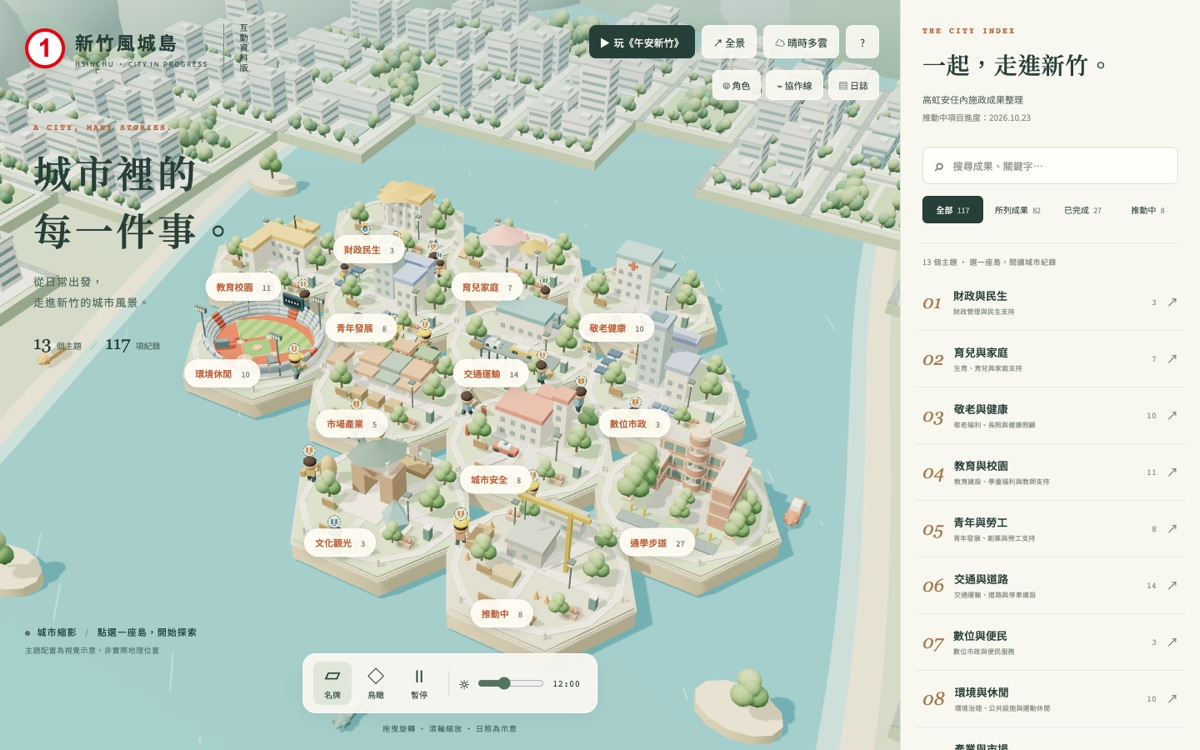
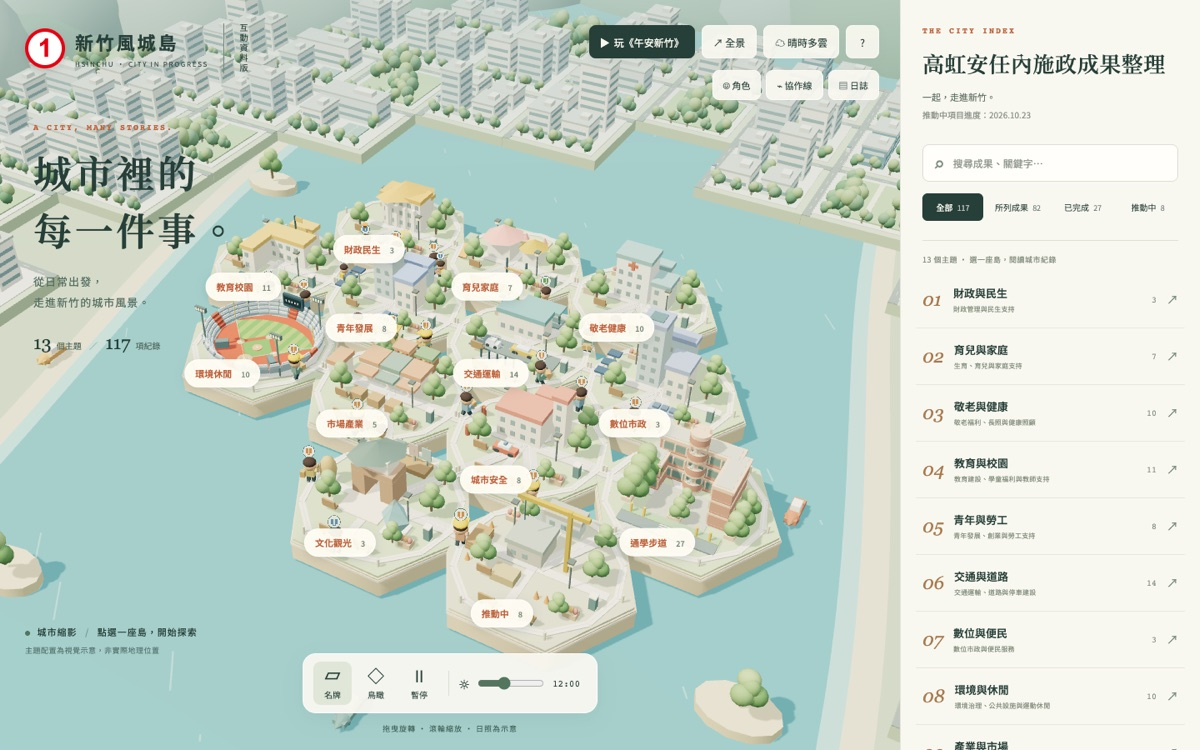
feat: lead the island index with the achievements title
Swap the sidebar heading and subtitle so 高虹安任內施政成果整理 is the
heading, and size it to stay on one line at every sidebar width.

Claude-Session: https://claude.ai/code/session_013HBxmqdVPVVfLEf7ipA8nB

diff --git a/src/style.css b/src/style.css
@@ -1,7 +1,7 @@
 @import url('https://fonts.googleapis.com/css2?family=Noto+Sans+TC:wght@400;500;600;700;800&family=Noto+Serif+TC:wght@500;600;700&display=swap');
-:root{font-family:'Noto Sans TC',sans-serif;color:#263f38;background:#f6f5ed;font-synthesis:none;--paper:#f9f8f0;--ink:#263f38;--green:#52755e;--orange:#bd613b;--border:#dedfd3}*{box-sizing:border-box}body{margin:0}button,input{font:inherit}button,a,input{-webkit-tap-highlight-color:transparent}button{cursor:pointer;color:inherit}button{border:0;background:none}button:focus-visible,a:focus-visible,input:focus-visible{outline:3px solid #bd613b;outline-offset:4px}button:hover{color:var(--orange)}[hidden]{display:none!important}.sr-only{position:absolute;width:1px;height:1px;padding:0;margin:-1px;overflow:hidden;clip:rect(0,0,0,0);white-space:nowrap;border:0}#app{height:100dvh;min-height:600px;display:grid;grid-template-columns:minmax(0,1fr) 360px}.city{position:relative;overflow:hidden;background:radial-gradient(ellipse at 40% 20%,#dae8df 0,#9fcad0 65%,#86b8c0 100%)}#stage{position:absolute;inset:0;z-index:0}#stage canvas{display:block;touch-action:none}.brand{position:absolute;left:30px;top:28px;z-index:3;display:flex;align-items:center;gap:18px}.brand a{display:flex;align-items:center;gap:12px;text-decoration:none;color:var(--ink)}.brand-symbol{width:48px;height:48px;background:#fff;border:4px solid #e60012;border-radius:50%;color:#e60012;font-family:Arial,'Noto Sans TC',sans-serif;font-size:30px;font-weight:900;line-height:1;display:flex;align-items:center;justify-content:center;box-shadow:0 3px 12px #263f3826}.brand strong{font-size:22px;letter-spacing:.13em;font-weight:700}.brand small{display:block;font-size:8px;letter-spacing:1.7px;margin-top:5px}.edition{border-left:1px solid #758d7f;padding-left:16px;font-size:10px;writing-mode:vertical-rl;letter-spacing:2px}.intro{position:absolute;top:146px;left:40px;pointer-events:none;z-index:1}.eyebrow{font-family:monospace;font-size:10px;font-weight:600;letter-spacing:2px;color:var(--orange)}.intro h1{font-family:'Noto Serif TC',serif;font-size:46px;letter-spacing:.08em;line-height:1.5;font-weight:600;margin:14px 0 16px}.intro p{font-size:13px;line-height:1.9;color:#536e61;letter-spacing:.08em}.intro-count{margin-top:24px;font-size:10px;color:#506b5e}.intro-count b{font-family:Georgia,serif;font-size:22px;color:var(--ink);font-weight:400;margin-right:4px}.intro-count span{padding:0 7px;opacity:.5}.map-actions{position:absolute;top:30px;right:25px;z-index:4;display:flex;gap:8px}.map-actions button{height:40px;min-width:40px;padding:0 13px;border:1px solid #ffffff7a;border-radius:8px;background:#f9f8f0e8;box-shadow:0 3px 12px #263f3808;font-size:12px}.map-actions #open-index{display:none}.scene-caption{position:absolute;bottom:113px;left:30px;font-size:11px;font-weight:500;letter-spacing:1px;pointer-events:none}.scene-caption small{display:block;font-size:9px;font-weight:400;letter-spacing:.5px;opacity:.7;margin-top:8px}.live-dot{display:inline-block;width:6px;height:6px;background:#52755e;border-radius:50%;margin-right:5px}.caption-divider{padding:0 6px;opacity:.4}.scene-controls{position:absolute;bottom:44px;left:50%;transform:translateX(-50%);z-index:4;display:flex;align-items:center;background:#f9f8f0f0;border:1px solid #ffffffb0;border-radius:16px;box-shadow:0 8px 24px #33504912;padding:9px 12px;gap:6px}.scene-controls>button{display:flex;flex-direction:column;align-items:center;gap:3px;width:46px;font-size:10px;border-radius:9px;padding:5px 0}.scene-controls>button>span{font-size:20px;line-height:24px}.scene-controls>button[aria-pressed=true]{background:#e0e7d8}.control-divider{height:30px;width:1px;background:var(--border);margin:0 6px}.scene-controls label{display:flex;align-items:center;gap:8px;font-size:20px;padding-right:8px}.scene-controls input{width:80px;accent-color:var(--green)}.scene-controls output{font:11px monospace}.scene-hint{position:absolute;bottom:19px;left:0;width:100%;text-align:center;font-size:9px;letter-spacing:1px;color:#37594e;pointer-events:none}.island-label{border:1px solid #fff8;background:#fffdf3ef;color:#2d493c;border-radius:20px;padding:8px 12px;box-shadow:0 3px 12px #243c3522;white-space:nowrap;font-size:11px;font-weight:600;pointer-events:auto;transition:background .2s}.island-label:hover,.island-label.selected,.island-label[aria-pressed=true]{background:#2f5044;color:#fff}.island-label small{font-size:9px;opacity:.65;margin-left:6px}.island-label span{color:var(--orange);margin-right:5px}.loading{position:absolute;top:60%;left:50%;transform:translate(-50%,-50%);font-size:13px}#sidebar{background:var(--paper);position:relative;z-index:5;overflow:auto;border-left:1px solid #e3e3d8;scrollbar-width:thin;scrollbar-color:#d5d7c9 transparent;display:flex;flex-direction:column}.side-header{padding:30px 26px 0}.side-header h2{font-family:'Noto Serif TC',serif;font-size:28px;font-weight:600;letter-spacing:.02em;margin:15px 0 12px}.side-header p{font-size:11px;line-height:1.9;color:#637468;margin:0}.side-header p span{font-size:10px;color:#8b948a}.search-box{display:flex;align-items:center;gap:8px;border:1px solid var(--border);border-radius:8px;padding:0 12px;margin:25px 0 14px;background:#fffefa}.search-box>span{font-size:23px;color:#7e8e7f}.search-box input{border:0;background:none;outline-offset:0;width:100%;min-width:0;height:43px;font-size:12px;color:var(--ink)}.search-box input::placeholder{color:#91998c}.filters{display:flex;gap:5px;padding-bottom:23px;border-bottom:1px solid var(--border)}.filters button{font-size:10px;padding:9px 8px;border-radius:6px;white-space:nowrap;flex:1}.filters b{font-size:9px;opacity:.7;font-weight:400;margin-left:3px}.filters button[aria-pressed=true]{background:var(--ink);color:var(--paper)}.list-summary{padding:16px 26px 8px;font-size:9px;letter-spacing:.5px;color:#849080}#category-list{padding:0 18px 12px;flex:1}.category{border-bottom:1px solid #e7e7dc}.category-toggle{width:100%;display:flex;align-items:center;gap:12px;text-align:left;min-height:67px;padding:12px 8px}.category-no{font-family:Georgia,serif;font-size:22px;font-style:italic;color:#a87a50;min-width:25px}.category-name{font-size:13px;font-weight:600;flex:1}.category-name small{display:block;font-size:8px;font-weight:400;color:#859180;margin-top:4px;letter-spacing:.2px}.category-count{font-family:monospace;font-size:10px;color:#8d9789}.category-arrow{font-size:14px;color:#778c78}.expanded>.category-toggle{color:var(--green)}.items{padding:0 6px 12px 39px}.item{width:100%;display:flex;align-items:center;gap:8px;text-align:left;font-size:11px;padding:10px 0;line-height:1.7}.item-dot{width:4px;height:4px;flex-shrink:0;border-radius:50%;background:#7a9472}.item-dot.pending{background:#bf8e43}.item>span:nth-child(2){flex:1}.item-arrow{opacity:.4;font-size:12px}.review-note{display:block;font-size:9px;color:#a07645}.side-footer{padding:22px 26px 24px;border-top:1px solid var(--border)}.side-footer>span{font-family:'Noto Serif TC',serif;font-size:12px;color:#7b8c79;display:block;margin-bottom:12px}.side-footer button{font-size:10px;padding:0;color:#5d755e}.empty{text-align:center;padding:35px 12px;color:#768671}.empty>span{font-size:34px}.empty h3{font-size:14px}.empty p{font-size:11px;line-height:1.8}.empty button{margin-top:10px;text-decoration:underline;font-size:12px}#close-index{display:none}dialog{color:var(--ink);border:1px solid #e3e4d7;padding:0;border-radius:20px;background:var(--paper);width:min(540px,calc(100% - 32px));max-height:85dvh;box-shadow:0 20px 100px #18332b33}dialog::backdrop{background:#18342a60;backdrop-filter:blur(5px)}.dialog-close{position:absolute;top:16px;right:16px;z-index:1;border-radius:50%;width:34px;height:34px;background:#fff9;font-size:14px}.detail-art{height:140px;background:radial-gradient(circle at 60% 20%,#e8ecd3,#c4d5bb);display:flex;align-items:center;justify-content:center;position:relative;overflow:hidden}.detail-art>span{font-family:serif;font-size:85px;color:#587658;transform:rotate(-10deg)}.detail-art small{position:absolute;bottom:13px;left:30px;font:8px monospace;letter-spacing:2px;color:#67805f}.detail-body{padding:30px}.detail-body h2{font-family:'Noto Serif TC',serif;font-size:28px;line-height:1.5;margin:12px 0}.status{display:inline-block;font-size:10px;padding:5px 8px;border-radius:4px;background:#e6ecd9;color:#4e6e47}.status.pending{background:#f1e4c7;color:#8d6d35}.detail-description{font-size:15px;line-height:2;letter-spacing:.02em;margin:22px 0 28px}.notice{border-left:3px solid #c9a063;background:#f0e9d9;padding:14px;font-size:12px;line-height:1.8}.notice p{margin:6px 0 0}.detail-source{border-top:1px solid var(--border);padding-top:20px;font-size:10px;line-height:1.8;margin-top:24px;color:#798975}.detail-source span{display:block}.detail-source b{font-weight:500;color:#526b54}.detail-source p{margin-bottom:0}#info{padding:40px 30px}#info h2{font-family:'Noto Serif TC',serif;font-size:26px;padding-right:12px}#info p,#info li{font-size:13px;line-height:2;color:#5c705b}#info ol{padding-left:20px}.skip-link{position:fixed;left:10px;top:-60px;z-index:100;background:white;padding:12px;color:var(--ink)}.skip-link:focus{top:10px}.fallback{position:absolute;top:48%;left:50%;transform:translate(-50%,-50%);width:75%;max-width:420px;text-align:center}.fallback>span{font:80px 'Noto Serif TC',serif}.fallback h2{font-family:'Noto Serif TC',serif}.fallback p{font-size:13px;line-height:2}.fallback button{border:1px solid #52755e;border-radius:7px;padding:10px 20px}
+:root{font-family:'Noto Sans TC',sans-serif;color:#263f38;background:#f6f5ed;font-synthesis:none;--paper:#f9f8f0;--ink:#263f38;--green:#52755e;--orange:#bd613b;--border:#dedfd3}*{box-sizing:border-box}body{margin:0}button,input{font:inherit}button,a,input{-webkit-tap-highlight-color:transparent}button{cursor:pointer;color:inherit}button{border:0;background:none}button:focus-visible,a:focus-visible,input:focus-visible{outline:3px solid #bd613b;outline-offset:4px}button:hover{color:var(--orange)}[hidden]{display:none!important}.sr-only{position:absolute;width:1px;height:1px;padding:0;margin:-1px;overflow:hidden;clip:rect(0,0,0,0);white-space:nowrap;border:0}#app{height:100dvh;min-height:600px;display:grid;grid-template-columns:minmax(0,1fr) 360px}.city{position:relative;overflow:hidden;background:radial-gradient(ellipse at 40% 20%,#dae8df 0,#9fcad0 65%,#86b8c0 100%)}#stage{position:absolute;inset:0;z-index:0}#stage canvas{display:block;touch-action:none}.brand{position:absolute;left:30px;top:28px;z-index:3;display:flex;align-items:center;gap:18px}.brand a{display:flex;align-items:center;gap:12px;text-decoration:none;color:var(--ink)}.brand-symbol{width:48px;height:48px;background:#fff;border:4px solid #e60012;border-radius:50%;color:#e60012;font-family:Arial,'Noto Sans TC',sans-serif;font-size:30px;font-weight:900;line-height:1;display:flex;align-items:center;justify-content:center;box-shadow:0 3px 12px #263f3826}.brand strong{font-size:22px;letter-spacing:.13em;font-weight:700}.brand small{display:block;font-size:8px;letter-spacing:1.7px;margin-top:5px}.edition{border-left:1px solid #758d7f;padding-left:16px;font-size:10px;writing-mode:vertical-rl;letter-spacing:2px}.intro{position:absolute;top:146px;left:40px;pointer-events:none;z-index:1}.eyebrow{font-family:monospace;font-size:10px;font-weight:600;letter-spacing:2px;color:var(--orange)}.intro h1{font-family:'Noto Serif TC',serif;font-size:46px;letter-spacing:.08em;line-height:1.5;font-weight:600;margin:14px 0 16px}.intro p{font-size:13px;line-height:1.9;color:#536e61;letter-spacing:.08em}.intro-count{margin-top:24px;font-size:10px;color:#506b5e}.intro-count b{font-family:Georgia,serif;font-size:22px;color:var(--ink);font-weight:400;margin-right:4px}.intro-count span{padding:0 7px;opacity:.5}.map-actions{position:absolute;top:30px;right:25px;z-index:4;display:flex;gap:8px}.map-actions button{height:40px;min-width:40px;padding:0 13px;border:1px solid #ffffff7a;border-radius:8px;background:#f9f8f0e8;box-shadow:0 3px 12px #263f3808;font-size:12px}.map-actions #open-index{display:none}.scene-caption{position:absolute;bottom:113px;left:30px;font-size:11px;font-weight:500;letter-spacing:1px;pointer-events:none}.scene-caption small{display:block;font-size:9px;font-weight:400;letter-spacing:.5px;opacity:.7;margin-top:8px}.live-dot{display:inline-block;width:6px;height:6px;background:#52755e;border-radius:50%;margin-right:5px}.caption-divider{padding:0 6px;opacity:.4}.scene-controls{position:absolute;bottom:44px;left:50%;transform:translateX(-50%);z-index:4;display:flex;align-items:center;background:#f9f8f0f0;border:1px solid #ffffffb0;border-radius:16px;box-shadow:0 8px 24px #33504912;padding:9px 12px;gap:6px}.scene-controls>button{display:flex;flex-direction:column;align-items:center;gap:3px;width:46px;font-size:10px;border-radius:9px;padding:5px 0}.scene-controls>button>span{font-size:20px;line-height:24px}.scene-controls>button[aria-pressed=true]{background:#e0e7d8}.control-divider{height:30px;width:1px;background:var(--border);margin:0 6px}.scene-controls label{display:flex;align-items:center;gap:8px;font-size:20px;padding-right:8px}.scene-controls input{width:80px;accent-color:var(--green)}.scene-controls output{font:11px monospace}.scene-hint{position:absolute;bottom:19px;left:0;width:100%;text-align:center;font-size:9px;letter-spacing:1px;color:#37594e;pointer-events:none}.island-label{border:1px solid #fff8;background:#fffdf3ef;color:#2d493c;border-radius:20px;padding:8px 12px;box-shadow:0 3px 12px #243c3522;white-space:nowrap;font-size:11px;font-weight:600;pointer-events:auto;transition:background .2s}.island-label:hover,.island-label.selected,.island-label[aria-pressed=true]{background:#2f5044;color:#fff}.island-label small{font-size:9px;opacity:.65;margin-left:6px}.island-label span{color:var(--orange);margin-right:5px}.loading{position:absolute;top:60%;left:50%;transform:translate(-50%,-50%);font-size:13px}#sidebar{background:var(--paper);position:relative;z-index:5;overflow:auto;border-left:1px solid #e3e3d8;scrollbar-width:thin;scrollbar-color:#d5d7c9 transparent;display:flex;flex-direction:column}.side-header{padding:30px 26px 0}.side-header h2{font-family:'Noto Serif TC',serif;font-size:26px;font-weight:600;letter-spacing:.02em;margin:15px 0 12px}.side-header p{font-size:11px;line-height:1.9;color:#637468;margin:0}.side-header p span{font-size:10px;color:#8b948a}.search-box{display:flex;align-items:center;gap:8px;border:1px solid var(--border);border-radius:8px;padding:0 12px;margin:25px 0 14px;background:#fffefa}.search-box>span{font-size:23px;color:#7e8e7f}.search-box input{border:0;background:none;outline-offset:0;width:100%;min-width:0;height:43px;font-size:12px;color:var(--ink)}.search-box input::placeholder{color:#91998c}.filters{display:flex;gap:5px;padding-bottom:23px;border-bottom:1px solid var(--border)}.filters button{font-size:10px;padding:9px 8px;border-radius:6px;white-space:nowrap;flex:1}.filters b{font-size:9px;opacity:.7;font-weight:400;margin-left:3px}.filters button[aria-pressed=true]{background:var(--ink);color:var(--paper)}.list-summary{padding:16px 26px 8px;font-size:9px;letter-spacing:.5px;color:#849080}#category-list{padding:0 18px 12px;flex:1}.category{border-bottom:1px solid #e7e7dc}.category-toggle{width:100%;display:flex;align-items:center;gap:12px;text-align:left;min-height:67px;padding:12px 8px}.category-no{font-family:Georgia,serif;font-size:22px;font-style:italic;color:#a87a50;min-width:25px}.category-name{font-size:13px;font-weight:600;flex:1}.category-name small{display:block;font-size:8px;font-weight:400;color:#859180;margin-top:4px;letter-spacing:.2px}.category-count{font-family:monospace;font-size:10px;color:#8d9789}.category-arrow{font-size:14px;color:#778c78}.expanded>.category-toggle{color:var(--green)}.items{padding:0 6px 12px 39px}.item{width:100%;display:flex;align-items:center;gap:8px;text-align:left;font-size:11px;padding:10px 0;line-height:1.7}.item-dot{width:4px;height:4px;flex-shrink:0;border-radius:50%;background:#7a9472}.item-dot.pending{background:#bf8e43}.item>span:nth-child(2){flex:1}.item-arrow{opacity:.4;font-size:12px}.review-note{display:block;font-size:9px;color:#a07645}.side-footer{padding:22px 26px 24px;border-top:1px solid var(--border)}.side-footer>span{font-family:'Noto Serif TC',serif;font-size:12px;color:#7b8c79;display:block;margin-bottom:12px}.side-footer button{font-size:10px;padding:0;color:#5d755e}.empty{text-align:center;padding:35px 12px;color:#768671}.empty>span{font-size:34px}.empty h3{font-size:14px}.empty p{font-size:11px;line-height:1.8}.empty button{margin-top:10px;text-decoration:underline;font-size:12px}#close-index{display:none}dialog{color:var(--ink);border:1px solid #e3e4d7;padding:0;border-radius:20px;background:var(--paper);width:min(540px,calc(100% - 32px));max-height:85dvh;box-shadow:0 20px 100px #18332b33}dialog::backdrop{background:#18342a60;backdrop-filter:blur(5px)}.dialog-close{position:absolute;top:16px;right:16px;z-index:1;border-radius:50%;width:34px;height:34px;background:#fff9;font-size:14px}.detail-art{height:140px;background:radial-gradient(circle at 60% 20%,#e8ecd3,#c4d5bb);display:flex;align-items:center;justify-content:center;position:relative;overflow:hidden}.detail-art>span{font-family:serif;font-size:85px;color:#587658;transform:rotate(-10deg)}.detail-art small{position:absolute;bottom:13px;left:30px;font:8px monospace;letter-spacing:2px;color:#67805f}.detail-body{padding:30px}.detail-body h2{font-family:'Noto Serif TC',serif;font-size:28px;line-height:1.5;margin:12px 0}.status{display:inline-block;font-size:10px;padding:5px 8px;border-radius:4px;background:#e6ecd9;color:#4e6e47}.status.pending{background:#f1e4c7;color:#8d6d35}.detail-description{font-size:15px;line-height:2;letter-spacing:.02em;margin:22px 0 28px}.notice{border-left:3px solid #c9a063;background:#f0e9d9;padding:14px;font-size:12px;line-height:1.8}.notice p{margin:6px 0 0}.detail-source{border-top:1px solid var(--border);padding-top:20px;font-size:10px;line-height:1.8;margin-top:24px;color:#798975}.detail-source span{display:block}.detail-source b{font-weight:500;color:#526b54}.detail-source p{margin-bottom:0}#info{padding:40px 30px}#info h2{font-family:'Noto Serif TC',serif;font-size:26px;padding-right:12px}#info p,#info li{font-size:13px;line-height:2;color:#5c705b}#info ol{padding-left:20px}.skip-link{position:fixed;left:10px;top:-60px;z-index:100;background:white;padding:12px;color:var(--ink)}.skip-link:focus{top:10px}.fallback{position:absolute;top:48%;left:50%;transform:translate(-50%,-50%);width:75%;max-width:420px;text-align:center}.fallback>span{font:80px 'Noto Serif TC',serif}.fallback h2{font-family:'Noto Serif TC',serif}.fallback p{font-size:13px;line-height:2}.fallback button{border:1px solid #52755e;border-radius:7px;padding:10px 20px}
 @media(min-width:1600px){#app{grid-template-columns:minmax(0,1fr) 390px}.intro{top:160px;left:50px}.intro h1{font-size:54px}.category-toggle{min-height:73px}}
-@media(max-width:1150px){#app{grid-template-columns:minmax(0,1fr) 320px}.brand{left:20px;gap:10px}.brand strong{font-size:19px}.edition{display:none}.intro{top:120px;left:25px}.intro h1{font-size:36px}.intro p{font-size:11px}.map-actions{right:18px}.scene-caption{left:20px;bottom:125px}.scene-controls{gap:2px;padding:8px}.scene-controls input{width:60px}.side-header{padding:30px 20px 0}.side-header h2{font-size:25px}.filters button{padding:8px 5px}.category-name small{font-size:7px}}
+@media(max-width:1150px){#app{grid-template-columns:minmax(0,1fr) 320px}.brand{left:20px;gap:10px}.brand strong{font-size:19px}.edition{display:none}.intro{top:120px;left:25px}.intro h1{font-size:36px}.intro p{font-size:11px}.map-actions{right:18px}.scene-caption{left:20px;bottom:125px}.scene-controls{gap:2px;padding:8px}.scene-controls input{width:60px}.side-header{padding:30px 20px 0}.side-header h2{font-size:24px}.filters button{padding:8px 5px}.category-name small{font-size:7px}}
 @media(max-width:760px){#app{display:block;min-height:0;height:100dvh}.city{height:100%}.brand{left:18px;top:20px}.brand-symbol{width:38px;height:38px;font-size:24px;border-width:3px}.brand strong{font-size:17px}.brand small{font-size:6px;letter-spacing:1.2px}.brand a{gap:9px}.map-actions{top:20px;right:15px;gap:5px}.map-actions button{height:36px;min-width:35px;padding:0 9px;font-size:11px}.map-actions #open-index{display:block}.map-actions #reset{display:none}.intro{top:108px;left:24px}.intro .eyebrow{font-size:8px}.intro h1{font-size:32px;line-height:1.45;margin:10px 0}.intro p{font-size:11px;margin:9px 0}.intro-count{margin-top:12px;font-size:9px}.intro-count b{font-size:18px}.scene-caption{left:22px;bottom:130px;font-size:10px}.scene-caption small{font-size:8px}.scene-controls{bottom:48px;border-radius:13px}.scene-controls input{width:55px}.scene-controls>button{width:40px;font-size:9px}.scene-controls label{gap:5px;padding-right:3px}.scene-controls output{font-size:10px}.scene-hint{bottom:25px;font-size:8px}.island-label{font-size:9px;padding:6px 8px}.island-label small{font-size:8px}#sidebar{position:fixed;inset:auto 0 0;max-height:84dvh;border-radius:22px 22px 0 0;border:1px solid var(--border);transform:translateY(105%);transition:transform .25s;z-index:10;box-shadow:0 -10px 60px #284b4222}#sidebar.open{transform:translateY(0)}.side-header{padding:25px 24px 0}.side-header h2{font-size:25px;margin:12px 0}.side-header p{font-size:10px}.search-box{margin-top:17px}.filters{padding-bottom:16px}#close-index{display:block;float:right;font-size:18px;margin-top:-6px}.category-name small{font-size:9px}.category-toggle{min-height:66px}.list-summary{padding-top:15px}.category-name{font-size:14px}.item{font-size:13px;padding:12px 0}.side-footer{padding-bottom:max(24px,env(safe-area-inset-bottom))}.detail-body{padding:25px}.detail-description{font-size:14px}.detail-body h2{font-size:25px}.detail-art{height:120px}}
 @media(max-height:650px) and (min-width:761px){.intro{top:110px}.intro h1{font-size:30px}.intro p,.intro-count{display:none}.scene-caption{display:none}}
 @media(prefers-reduced-motion:reduce){*,*::before,*::after{scroll-behavior:auto!important;transition:none!important;animation:none!important}}

diff --git a/index.html b/index.html
@@ -20,7 +20,7 @@
       <span class="scene-hint">拖曳旋轉 · 滾輪縮放 · 日照為示意</span>
     </section>
     <aside id="sidebar" aria-label="成果主題與項目清單">
-      <div class="side-header"><div class="eyebrow">THE CITY INDEX <button id="close-index" aria-label="關閉清單">✕</button></div><h2>一起，走進新竹。</h2><p>高虹安任內施政成果整理<br><span>推動中項目進度：2026.10.23</span></p><div class="search-box"><span aria-hidden="true">⌕</span><input id="search" type="search" placeholder="搜尋成果、關鍵字…" aria-label="搜尋成果、關鍵字"></div><div class="filters" role="group" aria-label="依項目狀態篩選"><button data-filter="all" aria-pressed="true">全部 <b>117</b></button><button data-filter="reported" aria-pressed="false">所列成果 <b>82</b></button><button data-filter="completed" aria-pressed="false">已完成 <b>27</b></button><button data-filter="pending" aria-pressed="false">推動中 <b>8</b></button></div></div>
+      <div class="side-header"><div class="eyebrow">THE CITY INDEX <button id="close-index" aria-label="關閉清單">✕</button></div><h2>高虹安任內施政成果整理</h2><p>一起，走進新竹。<br><span>推動中項目進度：2026.10.23</span></p><div class="search-box"><span aria-hidden="true">⌕</span><input id="search" type="search" placeholder="搜尋成果、關鍵字…" aria-label="搜尋成果、關鍵字"></div><div class="filters" role="group" aria-label="依項目狀態篩選"><button data-filter="all" aria-pressed="true">全部 <b>117</b></button><button data-filter="reported" aria-pressed="false">所列成果 <b>82</b></button><button data-filter="completed" aria-pressed="false">已完成 <b>27</b></button><button data-filter="pending" aria-pressed="false">推動中 <b>8</b></button></div></div>
       <div id="list-summary" class="list-summary" aria-live="polite"></div><div id="category-list"></div>
       <footer class="side-footer"><span>每一項紀錄，都有它的進度。</span><button id="sources">資料來源與閱讀說明 ↗</button></footer>
     </aside>
